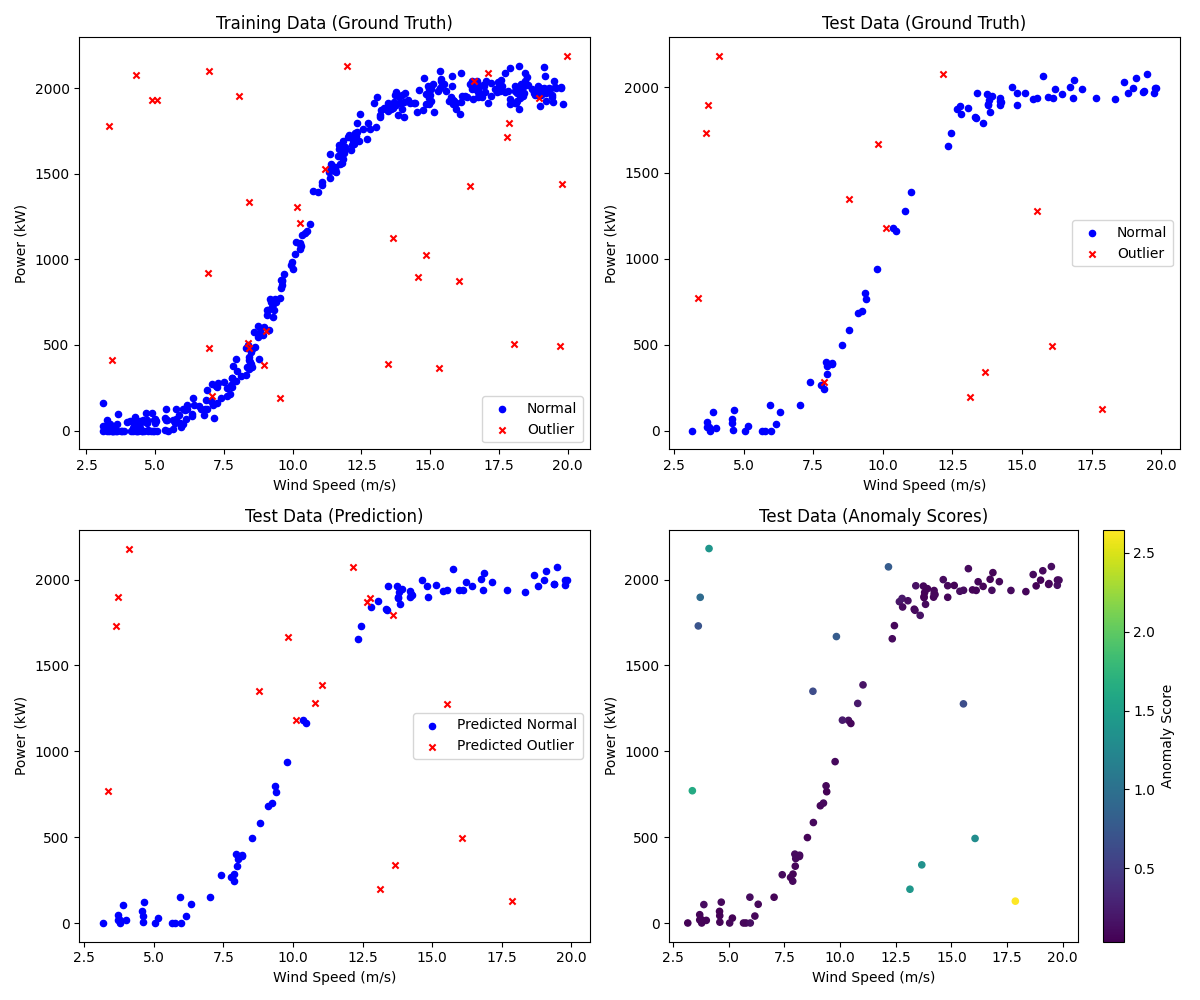
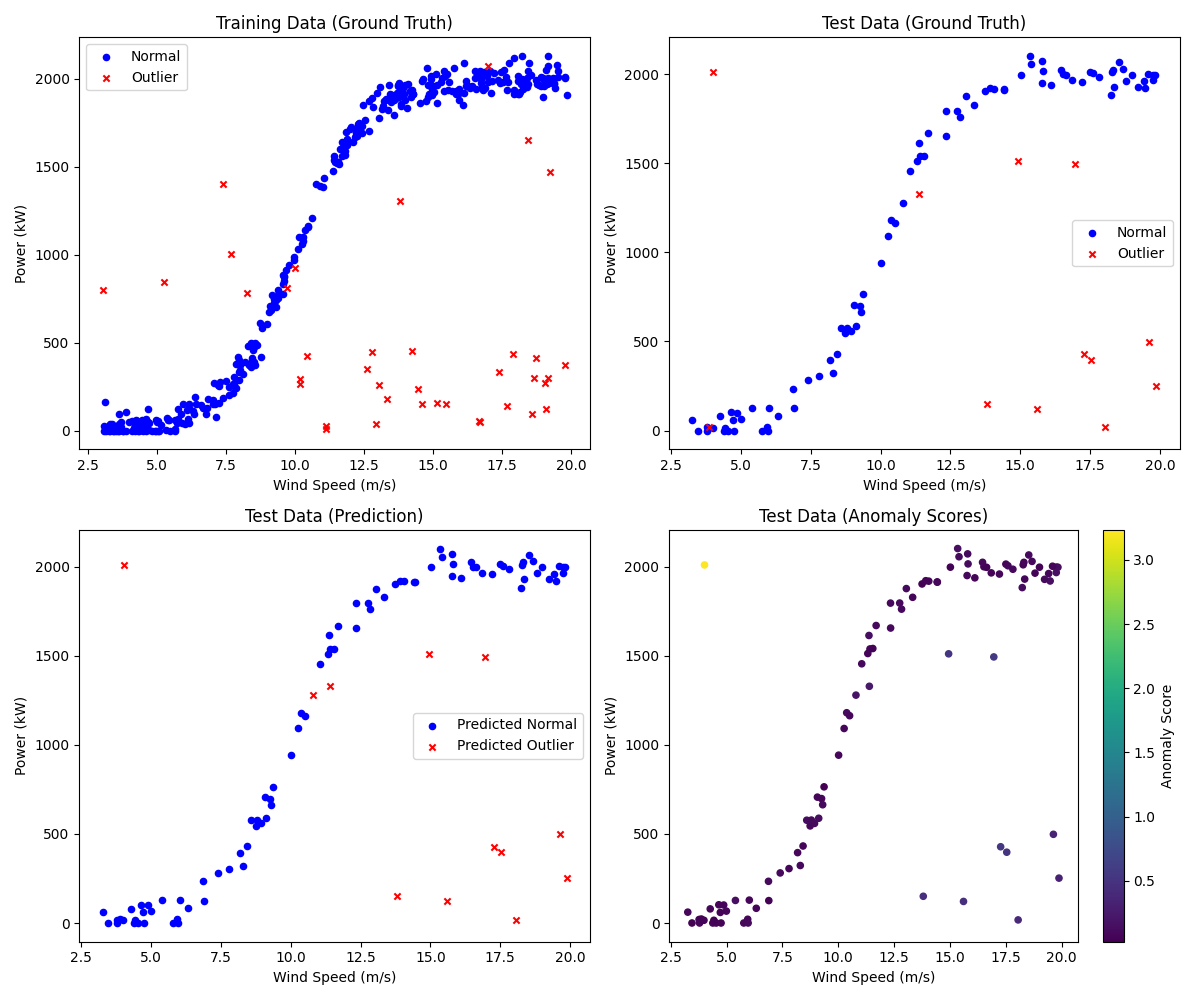
iforest

diff --git a/examples/fengji/iforest/wind_turbine_iforest.py b/examples/fengji/iforest/wind_turbine_iforest.py
@@ -1,0 +1,127 @@
+# -*- coding: utf-8 -*-
+"""
+使用 Isolation Forest 进行风机异常检测的示例
+Demo for Wind Turbine Anomaly Detection using Isolation Forest
+"""
+import os
+import sys
+import numpy as np
+import pandas as pd
+import matplotlib.pyplot as plt
+from pyod.models.iforest import IForest
+from pyod.utils.data import evaluate_print
+
+# 添加父目录以导入 data_generator 和 pyod
+current_dir = os.path.dirname(os.path.abspath(__file__))
+parent_dir = os.path.dirname(current_dir) # examples/fengji
+sys.path.append(parent_dir)
+sys.path.append(os.path.abspath(os.path.join(parent_dir, '../..'))) # prodtest root for pyod
+
+try:
+    from data_generator import generate_wind_turbine_data, get_feature_names
+except ImportError:
+    # Fallback if running from different location
+    sys.path.append(os.path.join(os.getcwd(), 'examples/fengji'))
+    from data_generator import generate_wind_turbine_data, get_feature_names
+
+if __name__ == "__main__":
+    # 配置参数
+    contamination = 0.1  # 异常比例
+    n_train = 500
+    n_test = 200
+    
+    # 1. 生成数据 (使用公共模块)
+    print("正在生成风机模拟数据 (包含风速、功率、转速、温度)...")
+    # 返回 DataFrame，列名为 b, dc, ah, a
+    X_df, y = generate_wind_turbine_data(n_samples=n_train + n_test, 
+                                         contamination=contamination, 
+                                         return_dataframe=True)
+    
+    # 获取特征映射名称
+    feature_map = get_feature_names()
+    print(f"特征列表: {X_df.columns.tolist()}")
+    print(f"特征含义: {feature_map}")
+    
+    # 分割训练集和测试集
+    X_train = X_df.iloc[:n_train]
+    X_test = X_df.iloc[n_train:]
+    y_train = y[:n_train]
+    y_test = y[n_train:]
+    
+    # 2. 训练模型 (Isolation Forest)
+    print("\n正在训练 Isolation Forest 模型...")
+    clf_name = 'IForest'
+    # IForest 不需要计算协方差矩阵，适合高维数据，处理非线性关系能力强
+    clf = IForest(contamination=contamination, random_state=42, n_estimators=100)
+    
+    # 使用所有 4 个特征进行训练
+    clf.fit(X_train)
+    
+    # 3. 预测与评估
+    # 获取训练集预测结果
+    y_train_pred = clf.labels_
+    y_train_scores = clf.decision_scores_
+    
+    # 获取测试集预测结果
+    y_test_pred = clf.predict(X_test)
+    y_test_scores = clf.decision_function(X_test)
+    
+    # 打印评估结果
+    print("\n评估结果 (Evaluation Results):")
+    print("-" * 30)
+    print("在训练集上:")
+    evaluate_print(clf_name, y_train, y_train_scores)
+    print("\n在测试集上:")
+    evaluate_print(clf_name, y_test, y_test_scores)
+    
+    # 4. 可视化结果
+    # 虽然使用了4个特征训练，但为了直观展示，我们主要绘制 风速(b) vs 功率(dc)
+    try:
+        plt.figure(figsize=(14, 6))
+        
+        # 提取绘图所需的列
+        x_col = 'b'   # 风速
+        y_col = 'dc'  # 功率
+        
+        # 子图1: 真实标签 (Ground Truth)
+        plt.subplot(1, 2, 1)
+        # 正常点
+        plt.scatter(X_test.loc[y_test==0, x_col], X_test.loc[y_test==0, y_col], 
+                    c='blue', s=20, label='Normal', alpha=0.7)
+        # 异常点
+        plt.scatter(X_test.loc[y_test==1, x_col], X_test.loc[y_test==1, y_col], 
+                    c='red', s=20, marker='x', label='Outlier', alpha=0.9)
+        
+        plt.title(f'Test Data Ground Truth\n({feature_map[x_col]} vs {feature_map[y_col]})')
+        plt.xlabel(feature_map[x_col])
+        plt.ylabel(feature_map[y_col])
+        plt.legend()
+        plt.grid(True, alpha=0.3)
+        
+        # 子图2: 预测结果 (Prediction)
+        plt.subplot(1, 2, 2)
+        # 预测正常
+        plt.scatter(X_test.loc[y_test_pred==0, x_col], X_test.loc[y_test_pred==0, y_col], 
+                    c='blue', s=20, label='Predicted Normal', alpha=0.7)
+        # 预测异常
+        plt.scatter(X_test.loc[y_test_pred==1, x_col], X_test.loc[y_test_pred==1, y_col], 
+                    c='orange', s=20, marker='x', label='Predicted Outlier', alpha=0.9)
+        
+        # 圈出被 IForest 认为异常的点 (用圆圈标记)
+        # 可以在背景中画出异常分数热力图，但对于高维数据比较难画，这里仅展示散点
+        
+        plt.title(f'IForest Prediction Result\n({feature_map[x_col]} vs {feature_map[y_col]})')
+        plt.xlabel(feature_map[x_col])
+        plt.ylabel(feature_map[y_col])
+        plt.legend()
+        plt.grid(True, alpha=0.3)
+        
+        plt.tight_layout()
+        save_path = os.path.join(current_dir, 'wind_turbine_iforest_result.png')
+        plt.savefig(save_path)
+        print(f"\n结果图已保存至: {save_path}")
+        
+    except Exception as e:
+        print(f"\n可视化失败: {e}")
+        import traceback
+        traceback.print_exc()

diff --git a/examples/fengji/data_generator.py b/examples/fengji/data_generator.py
@@ -1,0 +1,112 @@
+# -*- coding: utf-8 -*-
+"""
+风机数据生成器模块
+用于生成模拟的风力发电机 SCADA 数据
+"""
+import numpy as np
+import pandas as pd
+import json
+import os
+
+# 核心字段映射 (参考 column_mapping.json)
+# b: 风速
+# dc: 发电机有功功率
+# ah: 风轮转速
+# a: 舱外温度
+FEATURE_MAPPING = {
+    "b": "风速 (Wind Speed)",
+    "dc": "功率 (Power)",
+    "ah": "转速 (Rotor Speed)",
+    "a": "温度 (Temperature)"
+}
+
+def generate_wind_turbine_data(n_samples=500, contamination=0.1, random_state=42, return_dataframe=True):
+    """
+    生成模拟的风机数据
+
+    Parameters
+    ----------
+    n_samples : int
+        样本总数
+    contamination : float
+        异常比例 (0 < contamination < 0.5)
+    random_state : int
+        随机种子
+    return_dataframe : bool
+        是否返回 pandas DataFrame (默认 True)，否则返回 numpy array
+
+    Returns
+    -------
+    X : pd.DataFrame or np.ndarray
+        特征数据
+    y : np.ndarray
+        标签 (0: 正常, 1: 异常)
+    """
+    np.random.seed(random_state)
+    n_outliers = int(n_samples * contamination)
+    n_inliers = n_samples - n_outliers
+
+    # --- 1. 生成正常数据 (遵循物理规律) ---
+
+    # 风速 (b): 3m/s 到 20m/s
+    wind_speed = np.random.uniform(3, 20, n_inliers)
+
+    # 功率 (dc): 遵循功率曲线 Power ~ v^3 (但在切入切出风速间近似 S 形)
+    # Rated Power: 2000 kW
+    rated_power = 2000
+    # S 型曲线模拟: Power = Rated / (1 + exp(-k * (v - v0)))
+    power = rated_power / (1 + np.exp(-(wind_speed - 10) * 0.8))
+    # 添加噪声
+    power += np.random.normal(0, 50, n_inliers)
+    power = np.maximum(power, 0)
+
+    # 转速 (ah): 与风速/功率正相关，但在额定功率后保持恒定
+    # 简单模拟: 随风速线性增加，直到达到最大转速 (e.g. 15 rpm)
+    rotor_speed = np.minimum(wind_speed * 1.2, 15)
+    rotor_speed += np.random.normal(0, 0.5, n_inliers)
+
+    # 温度 (a): 舱外温度，与风速弱相关或独立，这里假设为独立分布
+    temperature = np.random.normal(20, 5, n_inliers)
+
+    X_inliers = np.column_stack((wind_speed, power, rotor_speed, temperature))
+
+    # --- 2. 生成异常数据 (违反物理规律) ---
+
+    # 异常类型 A: 高风速低功率 (停机、限电、故障)
+    outlier_wind_A = np.random.uniform(10, 20, int(n_outliers * 0.6))
+    outlier_power_A = np.random.uniform(0, 500, int(n_outliers * 0.6))
+    outlier_rotor_A = np.random.uniform(0, 5, int(n_outliers * 0.6)) # 转速也很低
+    outlier_temp_A = np.random.normal(20, 5, int(n_outliers * 0.6))
+
+    X_outliers_A = np.column_stack((outlier_wind_A, outlier_power_A, outlier_rotor_A, outlier_temp_A))
+
+    # 异常类型 B: 传感器故障 (随机噪声)
+    n_remain = n_outliers - len(X_outliers_A)
+    outlier_wind_B = np.random.uniform(3, 20, n_remain)
+    outlier_power_B = np.random.uniform(0, 2200, n_remain) # 随机功率
+    outlier_rotor_B = np.random.uniform(0, 20, n_remain) # 随机转速
+    outlier_temp_B = np.random.normal(20, 10, n_remain)
+
+    X_outliers_B = np.column_stack((outlier_wind_B, outlier_power_B, outlier_rotor_B, outlier_temp_B))
+
+    X_outliers = np.concatenate([X_outliers_A, X_outliers_B])
+
+    # --- 3. 合并与打乱 ---
+    X = np.concatenate([X_inliers, X_outliers])
+    y = np.concatenate([np.zeros(n_inliers), np.ones(n_outliers)])
+
+    indices = np.random.permutation(n_samples)
+    X = X[indices]
+    y = y[indices]
+
+    if return_dataframe:
+        # 使用 column_mapping.json 中的代码作为列名
+        columns = ["b", "dc", "ah", "a"]
+        X_df = pd.DataFrame(X, columns=columns)
+        return X_df, y
+    else:
+        return X, y
+
+def get_feature_names():
+    """返回特征代码到中文名称的映射"""
+    return FEATURE_MAPPING

diff --git a/examples/fengji/knn/wind_turbine_anomaly_detection.py b/examples/fengji/knn/wind_turbine_anomaly_detection.py
@@ -11,53 +11,18 @@ from pyod.models.knn import KNN
 from pyod.utils.data import evaluate_print
 
 # 临时添加父目录以导入 pyod (如果未安装)
+# 同时也为了导入上级目录的 data_generator
 sys.path.append(
     os.path.abspath(os.path.join(os.path.dirname(__file__), '../..')))
+sys.path.append(
+    os.path.abspath(os.path.join(os.path.dirname(__file__), '..')))
 
-def generate_wind_turbine_data(n_samples=500, contamination=0.1, random_state=42):
-    """
-    生成模拟的风机数据 (风速 vs 功率)
-    Generate simulated wind turbine data (Wind Speed vs Power)
-    """
-    np.random.seed(random_state)
-    n_outliers = int(n_samples * contamination)
-    n_inliers = n_samples - n_outliers
-
-    # 生成正常数据 (遵循功率曲线)
-    # 风速范围: 3m/s 到 20m/s
-    wind_speed = np.random.uniform(3, 20, n_inliers)
-
-    # 模拟功率曲线 (使用 Sigmoid 函数近似)
-    # Rated Power (额定功率): 2000 kW
-    rated_power = 2000
-    # 简单的 S 型曲线模拟: Power = Rated / (1 + exp(-k * (v - v0)))
-    power = rated_power / (1 + np.exp(-(wind_speed - 10) * 0.8))
-
-    # 添加一些噪声
-    power += np.random.normal(0, 50, n_inliers)
-
-    # 确保功率不小于0
-    power = np.maximum(power, 0)
-
-    X_inliers = np.column_stack((wind_speed, power))
-
-    # 生成异常数据
-    # 异常情况通常是偏离功率曲线的点
-    outlier_wind = np.random.uniform(3, 20, n_outliers)
-    # 随机功率，不遵循曲线
-    outlier_power = np.random.uniform(0, 2200, n_outliers)
-
-    X_outliers = np.column_stack((outlier_wind, outlier_power))
-
-    X = np.concatenate([X_inliers, X_outliers])
-    y = np.concatenate([np.zeros(n_inliers), np.ones(n_outliers)])
-
-    # 打乱数据
-    indices = np.random.permutation(n_samples)
-    X = X[indices]
-    y = y[indices]
-
-    return X, y
+try:
+    from data_generator import generate_wind_turbine_data
+except ImportError:
+    # Fallback if running from different location
+    sys.path.append(os.path.join(os.getcwd(), 'examples/fengji'))
+    from data_generator import generate_wind_turbine_data
 
 if __name__ == "__main__":
     # 配置参数
@@ -67,10 +32,19 @@ if __name__ == "__main__":
 
     # 1. 生成数据
     print("正在生成风机模拟数据...")
-    X, y = generate_wind_turbine_data(n_samples=n_train + n_test, contamination=contamination)
+    # 为了保持与原代码兼容，我们只使用前两列 (风速, 功率)
+    # return_dataframe=False 返回 numpy array
+    X, y = generate_wind_turbine_data(n_samples=n_train + n_test,
+                                      contamination=contamination,
+                                      return_dataframe=False)
+
+    # 仅保留前两列: [风速, 功率]
+    # 原有的 KNN 示例是针对 2D 数据设计的，直接使用所有特征可能需要调整协方差计算和可视化逻辑
+    X = X[:, :2]
 
     X_train, X_test = X[:n_train], X[n_train:]
     y_train, y_test = y[:n_train], y[n_train:]
+
 
     # 2. 训练模型 (KNN with Mahalanobis Distance)
     print("正在训练 KNN (Mahalanobis Distance) 模型...")
